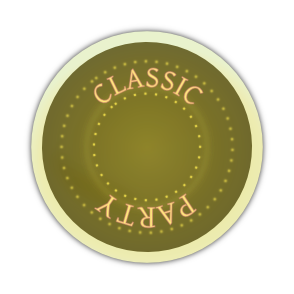
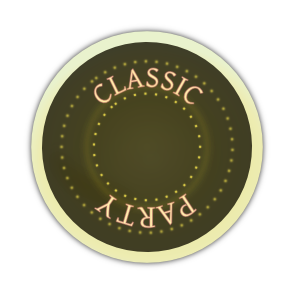
Fixed due time scaling. Fixed the spinner image contrast.

diff --git a/qml/MainMenu.qml b/qml/MainMenu.qml
@@ -77,7 +77,7 @@ Item {
                             instructionText.text = "<center><p>The clocks are ticking.</p><p>Let's make everybody slow down.</p></center>"
                             break;
                         case l3:
-                            instructionText.text = "<center><p>Teleport away!</p><p>Wouldn't it be nice if we could just go to a different place?</p><p>Hint: Use the button to the right.</p></center>"
+                            instructionText.text = "<center><p>Teleport away!</p><p>Wouldn't it be nice if we could<br/>go to a different place?</p><p>Hint: Use the button to the right.</p></center>"
                             break;
                         }
                     }
@@ -321,6 +321,7 @@ Item {
             }
             onClicked: {
                 retryTimer.start()
+                root.state = "running" // get rid of the menues while the counter is counting down
             }
         }
 
@@ -522,7 +523,7 @@ Item {
         width: parent.width * 0.1
         height: parent.width * 0.1
         selected: false
-        visible: (gameScene.gameMode == GameScene.ModeParty) // only visible in party mode
+        visible: (gameScene.gameMode == GameScene.ModeParty && level >= 14) // only visible in party mode above level 14
         onClicked: {
             gameScene.selectedType = GameScene.ParticleSpecial
         }

diff --git a/particle.cpp b/particle.cpp
@@ -25,20 +25,20 @@ const qreal forceByLengthFactor = 0.9;
 const qreal repellentCharge = -500;
 const qreal repellentDechargeRate = 200;
 
-// due time
-const int simpleDueTime = 10;
-
 // scaling
 const qreal globalScale = 2.5;
 const qreal playerScale = 1.3;
 const qreal enemyScale = 1.35;
-const qreal simpleScale = 1.2;
+const qreal simpleScale = 1.25;
 const qreal slowMotionScale = 2.0;
 const qreal repellentScale = 1.1;
+const qreal glowingScale = 1.1;
+const qreal transferScale = 1.1;
 
 // party mode settings
-const int partyDisintegrationTime = 10000;
-const int partyDisintegrationGlowingTime = 2000;
+const qreal partyDisintegrationSimpleTime = 10.0;
+const qreal partyDisintegrationGlowingTime = 2.0;
+const qreal partyDisintegrationSpecialTime = 20.0;
 
 Particle::Particle(GameScene *gameScene) :
     GameObject(gameScene) ,
@@ -49,7 +49,7 @@ Particle::Particle(GameScene *gameScene) :
     _mass(particleMass),
     _electroSticky(false),
     hasCollidedWithPlayer(false),
-    m_createdTime(0)
+    m_dueTime(0)
 {
 }
 
@@ -106,15 +106,26 @@ void Particle::advance(int step) {
     }
     setPosition(nextPosition); // we calculated our next position in the last timestep, now, lets use it
     float dt = gameScene()->dt();
-    // Special charges
-    if(particleType() == ParticleRepellent) {
-        if(charge() < 0) {
-            setCharge(charge() + dt * repellentDechargeRate);
+    // Party mode stuff
+    if(gameScene()->gameMode() == GameScene::ModeParty) {
+        // Special charges
+        if(particleType() == ParticleRepellent) {
+            if(charge() < 0) {
+                setCharge(charge() + dt * repellentDechargeRate);
+            }
         }
-    }
-    // scale by due time
-    if(dueTime() != -1) {
-        setScale(originalScale * (double) dueTime / (double) originalDueTime);
+        // scale by due time
+        setDueTime(dueTime() - dt);
+        if(dueTime() > 0) {
+            setScale(originalScale * dueTime() / originalDueTime);
+        }
+        // Shake watches on slow motion
+        if(particleType() == ParticleSlowMotion) {
+            qDebug() << gameScene()->isSlowMotionEnabled();
+            if(gameScene()->isSlowMotionEnabled()) {
+                setRotation(rotation() + 360 * dt);
+            }
+        }
     }
     // Calculate forces
     QVector2D F;
@@ -181,7 +192,6 @@ void Particle::advance(int step) {
                                     qreal yvel = (7 + ran0() * 3) * sin(2*M_PI * i / nEffectParticles);
                                     particleEffect->setPosition(QVector2D(xpos,ypos));
                                     particleEffect->setVelocity(QVector2D(xvel,yvel));
-                                    particleEffect->setScale(3);
                                     particleEffect->setMass(10);
                                     particleEffect->setCharge(0);
                                     particleEffect->setParticleType(ParticleGlowing);
@@ -284,12 +294,13 @@ QRectF Particle::boundingRect() const {
 void Particle::setParticleType(int particleType)
 {
     m_particleType = particleType;
-    if(gameScene->gameMode() == GameScene::ModeParty) {
-        if(particleType == ParticleSimple ||
-                particleType == ParticleSlowMotion ||
-                particleType == ParticleRepellent ||
-                particleType == ParticleTransfer) {
-            setDueTime(partyDisintegrationTime);
+    if(gameScene()->gameMode() == GameScene::ModeParty) {
+        if(particleType == ParticleSimple) {
+            setDueTime(partyDisintegrationSimpleTime);
+        } else if (particleType == ParticleSlowMotion ||
+                   particleType == ParticleRepellent ||
+                   particleType == ParticleTransfer) {
+            setDueTime(partyDisintegrationSpecialTime);
         } else if(particleType == ParticleGlowing) {
             setDueTime(partyDisintegrationGlowingTime);
         } else {
@@ -298,10 +309,33 @@ void Particle::setParticleType(int particleType)
     } else {
         setDueTime(-1);
     }
-    if(particleType == ParticlePlayer) {
-        setScale(playerScale * globalScale);
-        originalScale = playerScale * globalScale;
-    } else if(particleType == ParticleEnemy) {
-        setScale(enemyScale * globalScale);
+    originalDueTime = dueTime();
+    // Scaling
+    // TODO: Make this a bit prettier by using an array or something
+    qreal myScale = 1.0;
+    switch(particleType) {
+    case ParticlePlayer:
+        myScale = playerScale;
+        break;
+    case ParticleEnemy:
+        myScale = enemyScale;
+        break;
+    case ParticleSimple:
+        myScale = simpleScale;
+        break;
+    case ParticleSlowMotion:
+        myScale = slowMotionScale;
+        break;
+    case ParticleRepellent:
+        myScale = repellentScale;
+        break;
+    case ParticleGlowing:
+        myScale = glowingScale;
+        break;
+    case ParticleTransfer:
+        myScale = transferScale;
+        break;
     }
+    setScale(myScale * globalScale);
+    originalScale = scale();
 }

diff --git a/gamescene.cpp b/gamescene.cpp
@@ -46,10 +46,11 @@ const qreal timeIncrement = 0.9;
 const int baseTimeParty = 30;
 const qreal timeIncrementParty = 2;
 const qreal normalTimeFactor = 1.0;
-const qreal slowMotionTimeFactor = 0.3;
+const qreal slowMotionTimeFactor = 0.2;
 
 GameScene::GameScene(GameView *parent) :
-    QGraphicsScene(parent)
+    QGraphicsScene(parent),
+    m_isSlowMotionEnabled(false)
 {
     qRegisterMetaType<GameScene::GameMode>("GameMode");
     qRegisterMetaType<GameScene::GameState>("GameState");
@@ -374,7 +375,6 @@ void GameScene::setLevel(int level) {
     } else {
         player->setPosition(QVector2D(gameRectF().width() / 2,gameRectF().height() / 2));
     }
-    player->setScale(playerScale * globalScale);
 
     // add enemies
     addEnemies();
@@ -386,6 +386,7 @@ void GameScene::setLevel(int level) {
 void GameScene::enableSlowMotion(int time)
 {
     qDebug() << "Slow motion enabled";
+    setSlowMotionEnabled(true);
     QTimer::singleShot(time, this, SLOT(disableSlowMotion()));
     timeFactorAnimation->setDuration(1000);
     timeFactorAnimation->setStartValue(normalTimeFactor);
@@ -396,6 +397,7 @@ void GameScene::enableSlowMotion(int time)
 void GameScene::disableSlowMotion()
 {
     qDebug() << "Slow motion disabled";
+    setSlowMotionEnabled(false);
     timeFactorAnimation->setDuration(1000);
     timeFactorAnimation->setStartValue(slowMotionTimeFactor);
     timeFactorAnimation->setEndValue(normalTimeFactor);
@@ -499,7 +501,6 @@ void GameScene::addEnemies() {
         }
         enemy->setMass(26.0);
         enemy->setCharge(enemyChargeLevel);
-        enemy->setScale(enemyScale * globalScale);
         areaNumber++;
         if(areaNumber > 12) {
             areaNumber = 1;
@@ -538,15 +539,12 @@ void GameScene::checkAddSpecialParticle() {
     foreach(QGraphicsItem *item, items()) {
         if(Particle* particle = qgraphicsitem_cast<Particle*>(item)) {
             // Remove overdue charges
-            int timeSinceCreation = currentTime - particle->createdTime();
-            if(timeSinceCreation > partyDisintegrationTime &&
+            if(particle->dueTime() < 0 &&
                     (particle->particleType() == Particle::ParticleSimple ||
                      particle->particleType() == Particle::ParticleSlowMotion ||
                      particle->particleType() == Particle::ParticleRepellent ||
-                     particle->particleType() == Particle::ParticleTransfer)
-                    ||
-                    ((timeSinceCreation > partyDisintegrationGlowingTime &&
-                     particle->particleType() == Particle::ParticleGlowing))
+                     particle->particleType() == Particle::ParticleTransfer ||
+                     particle->particleType() == Particle::ParticleGlowing)
                     ) {
                 if(particle->particleType() == Particle::ParticleSimple) {
                     if(particle->charge() > 0) {
@@ -590,7 +588,6 @@ void GameScene::checkAddSpecialParticle() {
             break;
         }
         particle->setCharge(0);
-        particle->setScale(globalScale * slowMotionScale);
         QVector2D position = player->position();
         while((position - player->position()).lengthSquared() < player->size().width() * 3) {
             qreal xrand = (qreal)qrand()/(qreal)RAND_MAX;
@@ -697,9 +694,9 @@ void GameScene::mousePressEvent(QGraphicsSceneMouseEvent *event) {
                     }
                     Particle *particle = new Particle(this);
                     addItem(particle);
+                    particle->setParticleType(Particle::ParticleSimple);
                     particle->setPosition(clickPosition);
                     particle->setCharge((fortegn * simpleCharge * (1 + levelChargeFactor * pow((double)m_level,2))));
-                    particle->setScale(simpleScale * globalScale);
                     // update the UI text showing number of remaining charges
                     updateRemainingChargeText();
                 }

diff --git a/gamescene.h b/gamescene.h
@@ -29,6 +29,7 @@ class GameScene : public QGraphicsScene
     Q_PROPERTY(QList<int> *specialParticles READ specialParticles)
     Q_PROPERTY(Selection selectedType READ selectedType WRITE setSelectedType NOTIFY selectedTypeChanged)
     Q_PROPERTY(bool levelUpgrade READ levelUpgrade WRITE setLevelUpgrade NOTIFY levelUpgradeChanged)
+    Q_PROPERTY(bool isSlowMotionEnabled READ isSlowMotionEnabled WRITE setSlowMotionEnabled NOTIFY slowMotionEnabledChanged)
     Q_ENUMS(GameMode)
     Q_ENUMS(GameState)
     Q_ENUMS(Selection)
@@ -159,6 +160,11 @@ public:
         return m_levelUpgrade;
     }
 
+    bool isSlowMotionEnabled() const
+    {
+        return m_isSlowMotionEnabled;
+    }
+
 signals:
     void highestLevelChanged(int);
     void levelChanged(int);
@@ -179,6 +185,8 @@ signals:
     void viewModeChanged(ViewMode arg);
 
     void levelUpgradeChanged(bool arg);
+
+    void slowMotionEnabledChanged(bool arg);
 
 public slots:
     void enableSlowMotion(int time);
@@ -235,6 +243,14 @@ public slots:
         }
     }
 
+    void setSlowMotionEnabled(bool arg)
+    {
+        if (m_isSlowMotionEnabled != arg) {
+            m_isSlowMotionEnabled = arg;
+            emit slowMotionEnabledChanged(arg);
+        }
+    }
+
 private:
     void addEnemies();
     int m_highestLevel;
@@ -278,6 +294,7 @@ private:
     QString m_version;
     ViewMode m_viewMode;
     bool m_levelUpgrade;
+    bool m_isSlowMotionEnabled;
 };
 Q_DECLARE_METATYPE(GameScene::GameMode)
 Q_DECLARE_METATYPE(GameScene::GameState)

diff --git a/particle.h b/particle.h
@@ -55,17 +55,10 @@ public:
 
     bool matchParticles(Particle *particle1, Particle *particle2, ParticleType type1, ParticleType type2);
     bool hasCollidedWithPlayer;
-    int createdTime() {
-        return m_createdTime;
-    }
-    void setCreatedTime(int createdTime) {
-        m_createdTime = createdTime;
-    }
-    void setDueTime(int dueTime) {
-        originalDueTime = dueTime;
+    void setDueTime(double dueTime) {
         m_dueTime = dueTime;
     }
-    int dueTime() {
+    double dueTime() {
         return m_dueTime;
     }
 
@@ -80,13 +73,12 @@ private:
     QImage neutralImage;
     int m_particleType;
     qreal _mass;
-    bool _electroSticky;
     bool _sticky;
+    bool _electroSticky;
     qreal originalCharge;
-    int m_createdTime;
-    int m_dueTime;
-    int originalDueTime;
-    int originalScale;
+    double m_dueTime;
+    double originalDueTime;
+    double originalScale;
 
 };
 
